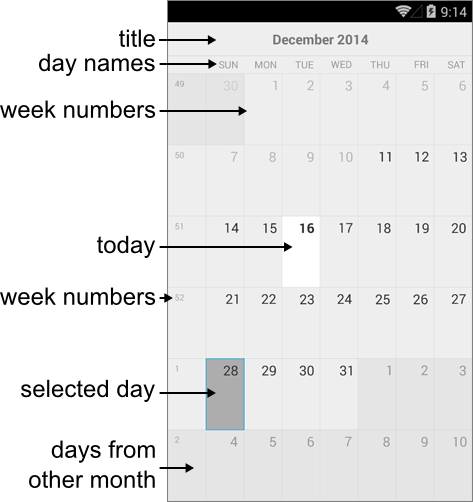
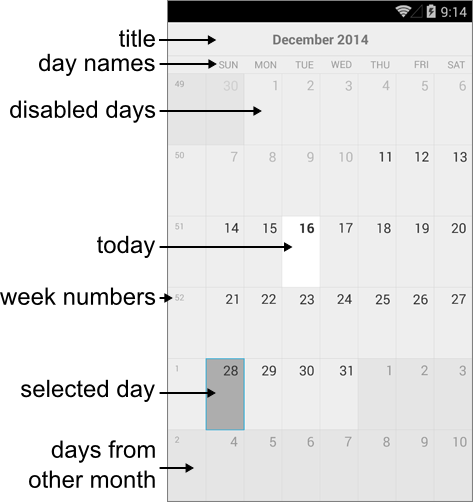
Calendar  documentation.

Changed region(s): [[0.0, 0.1793, 0.3256, 0.239], [0.5032, 0.2092, 0.5624, 0.239]]

diff --git a/controls/calendar/features/calendar-styling.md b/controls/calendar/features/calendar-styling.md
@@ -34,23 +34,117 @@ slug: calendar-styling
 
 ### Cell Styling ###
  
-- **SetStyleForCell** (Func<CalendarCell, CalendarCellStyle>):
+- **SetStyleForCell** (Func&lt;CalendarCell, CalendarCellStyle&gt;):
 
 #### Example ####
 
+	var calendar = new RadCalendar();
+	calendar.SetStyleForCell = this.EvaluateCellStyle;
 
+Here is a sample method the will set a custom style for the cells of type DayName: 
+
+	private CalendarCellStyle EvaluateCellStyle(CalendarCell cell)
+	{
+	    if (cell.Type == CalendarCellType.DayName)
+	    {
+	        return new CalendarCellStyle
+	        {
+	            BackgroundColor = Color.White,
+	            ForegroundColor = Color.FromRgb(163, 118, 222),
+	            FontSize = 15,                   
+	            FontWeight = FontWeight.Bold
+	        };
+	    }
+	
+	    return null;
+	}
+
+Here is the result:
+
+![pic]()
 
 ### Resources ###
 
+Sometimes you will need to set different values of the properties for each platform. This is possible ... 
+
+ 
 #### CalendarResources ####
 
-- static **Instance** (CalendarResources):     
-- **DisplayWeekNumbers** (bool):
+This is a special static class which instance is created for every platform and its members are overridden with platform specific values.
+
+It exposes the following members:
+
+- static **Instance** (CalendarResources):   Gets or sets the instance of the CalendarResources class. See the example below to see how you can create your own instance.
+- **DisplayWeekNumbers** (bool): Gets the 
 - **DisplayDayNames** (bool):
+- **DisplayGridLines** (bool):
 - **GridLinesColor** (Color):
 - **GridLinesWidth** (double):
-- **DisplayGridLines** (bool):
-- void **Load**():
+- void **Load**(): You should override this method in the classes that inherit from the CalendarResources class and  call it in order to initialize your own instance.
 
 
-### User resources ###
+
+
+You can change these resources per platform. You have to create a class that inherits from the platform specific resource class:
+
+- Android: AndroidCalendarResources
+- iOS: IOSCalendarResources
+- Windows Phone: WinPhoneCalendarResources
+
+and override the members that you wish to change.
+
+#### Example ####
+
+ This example demonstrates how you can change the default visibility of the day names only in Android. You have to create the following class in the Android project:
+
+    public class CustomAndroidCalendarResources : AndroidCalendarResources
+    {
+        private static CustomAndroidCalendarResources instance = new CustomAndroidCalendarResources();
+
+        private const bool displayDayNames = false;
+
+        static CustomAndroidCalendarResources()
+        {
+            CalendarResources.Instance = instance;
+        }
+
+        private CustomAndroidCalendarResources()
+        {
+        }
+
+        public static new CustomAndroidCalendarResources Instance
+        {
+            get
+            {
+                return instance;
+            }
+        }
+
+        public override bool DisplayDayNames
+        {
+            get
+            {
+                return displayDayNames;
+            }
+        }
+
+        public override void Load()
+        {
+        }
+    }
+
+After that you have to load the custom resources in the MainActivity.cs class before the Forms.Init(this, bundle) call:
+
+	protected override void OnCreate(Bundle bundle)
+	{
+	    base.OnCreate(bundle);
+	    CustomAndroidCalendarResources.Instance.Load();
+	    Forms.Init(this, bundle);
+	
+	    this.SetPage(App.GetMainPage());
+	}
+
+#### User resources ####
+
+Similarly to the CalendarResources class, you can create your own custom resources that will define platform specific properties.
+

diff --git a/controls/calendar/calendar-cell-types.md b/controls/calendar/calendar-cell-types.md
@@ -1,0 +1,32 @@
+---
+title: Calendar Cell Types
+page_title: Calendar Cell Types
+position:  
+slug: calendar-cell-types
+---
+
+![Calendar Cell Types](calendar-cell-types-diagram.png "Calendar Cell Types")
+
+## CalendarCell ##
+
+- **Text** (string): Gets the text displayed in the cell.
+- **Type** (CalendarCellType): Gets the type of the cell.
+
+## CalendarDateCell : CalendarCell ##
+
+- **IsEnabled** (bool): Gets a value that specifies whether the cell is enabled (inside the calendar MinDate and MaxDate range).
+- **IsSelected** (bool): Gets a value that specifies whether the cell is currently selected.
+- **Date** (DateTime): Gets the date that corresponds to the cell.
+
+>**Type**: The only allowed type of CalendatDayCell is `Date`.
+
+## CalendatDayCell : CalendarDateCell ##
+
+- **IsFromCurrentMonth** (bool): Gets a value that specifies whether the cell is from the current month in month view.
+- **IsToday** (bool): Gets a value that specifies whether the cell date is today.
+
+>**Type**: The only allowed type of CalendatDayCell is `Date`.
+
+## CalendarTextCell : CalendarCell ##
+
+>**Type**: The only allowed types of CalendatDayCell are `Title`, `WeekNumber` and `DayName`.

diff --git a/controls/calendar/calendar-features.md b/controls/calendar/calendar-features.md
@@ -5,20 +5,6 @@ position: 4
 slug: calendar-features
 ---
 
-
-
-
-Styling 
-### Properties: ### 
-**GridLinesColor** (Color): 
-SelectionDecorationColor (Color): 
-**GridLinesWidth** (double): 
-SelectionDecorationWidth (double): Valid/used for Android ONLY! 
-**GridLinesDisplayMode** (DisplayMode): 
-SelectionDisplayMode (DisplayMode): 
-**SetStyleForCell** (Func<CalendarCell, CalendarCellStyle>): 
-**DayNamesDisplayMode** (DisplayMode): 
-**WeekNumbersDisplayMode** (DisplayMode): 
 ## Appointments ##
 
 ### Properties: ###
@@ -27,7 +13,7 @@ SelectionDisplayMode (DisplayMode):
 
 ## Additional classes / enums  ##
 
-### Classes ### 
+### Classes ###
 
 ValueChangedEventArgs<T> 
 T PreviousValue 
@@ -61,35 +47,7 @@ IsToday (bool):
 CalendarTextCell : CalendarCell 
 Type: Title, WeekNumber, DayName 
 Enums 
-CalendarViewMode 
- 
-Windows Phone 
-iOS 
-Android 
-Month 
- 
- 
- 
-Week 
- 
- 
- 
-MonthNames 
- 
- 
- 
-Year 
- 
- 
- 
-YearNumbers 
- 
- 
- 
-Flow 
- 
- 
- 
+
  
 CalendarCellType 
 Date 
